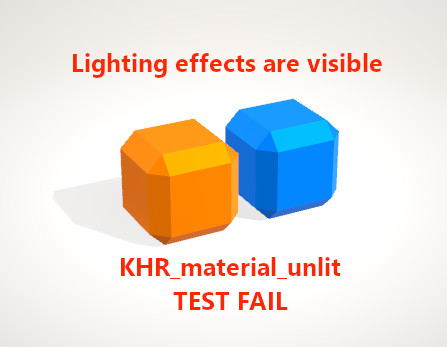
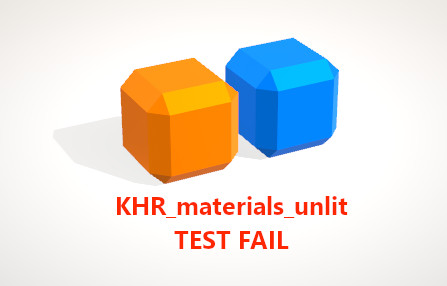
Update fail screenshot and add discussion to readme.

Changed region(s): [[0.1454, 0.1119, 0.8725, 0.8951]]

diff --git a/2.0/UnlitTest/README.md b/2.0/UnlitTest/README.md
@@ -14,6 +14,25 @@ This model tests the [`KHR_materials_unlit`](https://github.com/KhronosGroup/glT
 
 The above screenshot shows a case where normal lighting calculations have been applied to an un-lit material.  While the shadows on the ground are permissible, the various panels and edges visible on the orange and blue objects are not.
 
+## `ExtensionsUsed` vs. `ExtensionsRequired`
+
+This model lists the unlit extension in both lists, like this:
+
+```
+    "extensionsUsed": [
+        "KHR_materials_unlit"
+    ],
+    "extensionsRequired": [
+        "KHR_materials_unlit"
+    ]
+```
+
+The first list includes all extensions used by the current model, so there's no doubt that `KHR_materials_unlit` belongs there in this case.  The second list is a subset of the first list, naming all the extensions that a given glTF viewer is *required* to support in order for this model to be loaded and displayed correctly.  In this case, the sample model is a showcase for the visual appearance of the un-lit material, and any visible lighting effects are being declared as errors in the glTF viewer implementation.
+
+For this reason, I decided to include `KHR_materials_unlit` in the `extensionsRequired` list in this case.  A conforming glTF implementation that does not support the `KHR_materials_unlit` extension should find an unknown value in the `extensionsRequired` list, and report an error rather than loading or displaying the model without the unlit material.
+
+In your own models, if you consider using a lit material to be a reasonable fallback behavior for implementations that don't support this extension, you should omit `KHR_materials_unlit` from the `extensionsRequired` list.
+
 ## License Information
 
 Copyright 2018 Analytical Graphics, Inc.
